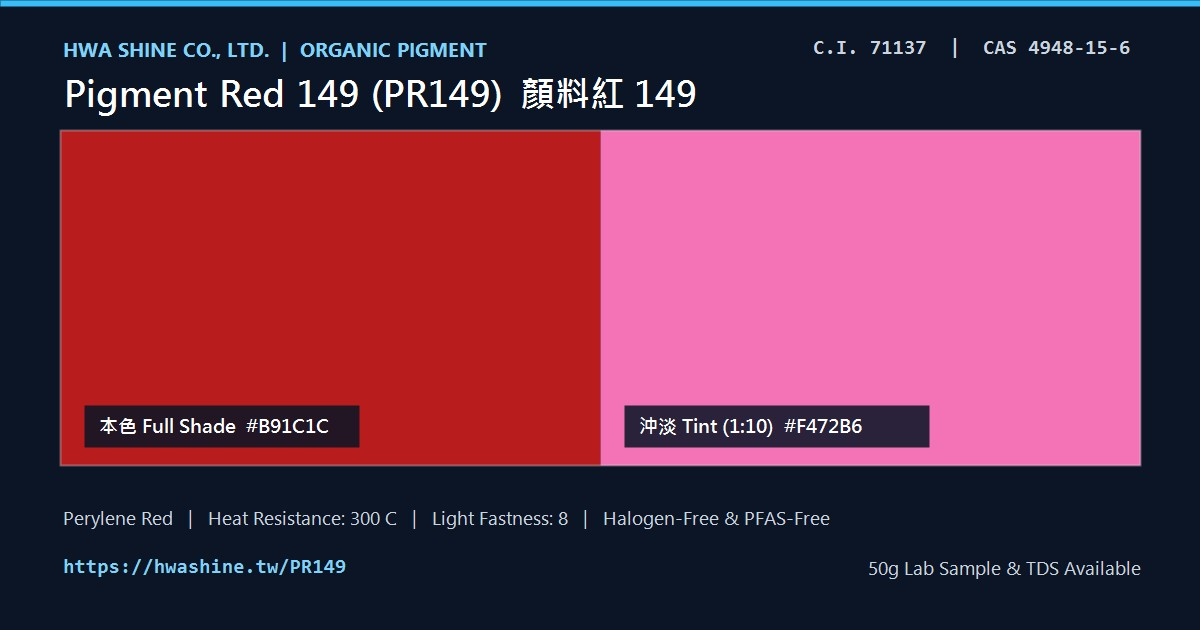
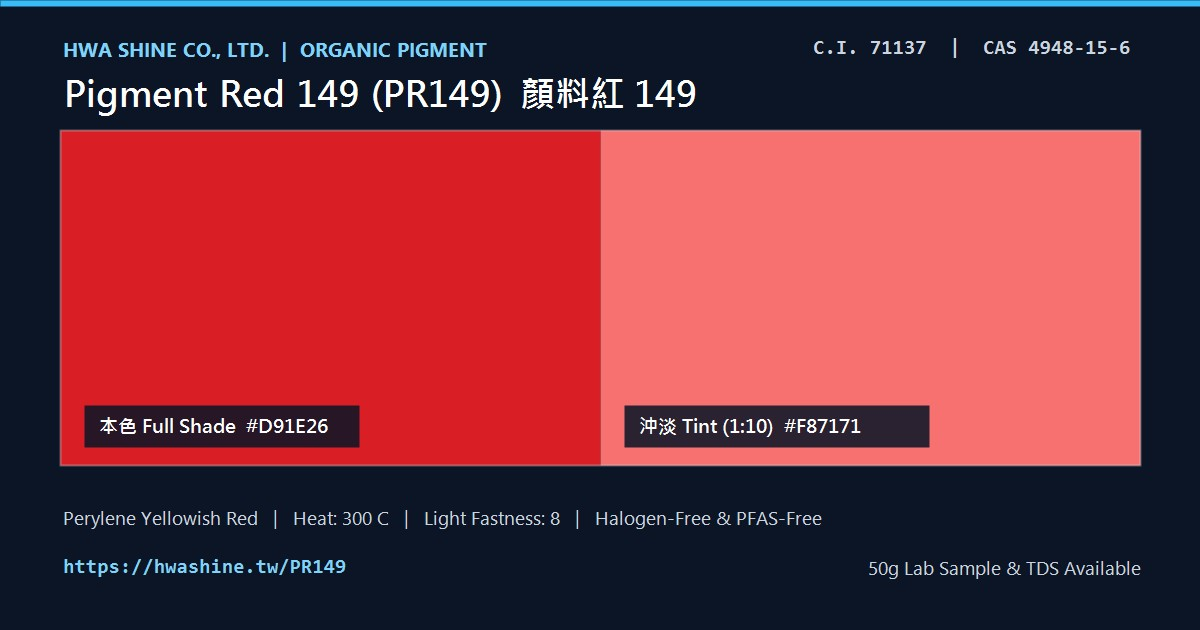
fix(color): correct PR149 hue to bright yellowish red and remove PR122 as true-red substitute in PR144

diff --git a/PR144.html b/PR144.html
@@ -74,7 +74,7 @@
             "name": "Q2. PR144 是否屬於無鹵素顏料？",
             "acceptedAnswer": {
               "@type": "Answer",
-              "text": "不是。PR144 分子式為 C40H23Cl5N6O4，含有 5 顆共價氯原子，雖然完全符合 RoHS 重金屬與 PFAS-Free 要求，但不適用於電子業 IEC 總氯 ≤ 900 ppm 的無鹵素規範；若需無鹵素 300°C 正紅請改選 PR149 或 PR122。"
+              "text": "不是。PR144 分子式為 C40H23Cl5N6O4，含有 5 顆共價氯原子，雖然完全符合 RoHS 重金屬與 PFAS-Free 要求，但不適用於電子業 IEC 總氯 ≤ 900 ppm 的無鹵素規範；若需無鹵素高溫紅顏料，偏亮紅/黃光紅請優先評估 PR149（300°C 苝紅），偏藍光紅可評估 PR177（280°C 蒽醌紅）；PR122 則為藍光品紅，需搭配黃相紅調色。"
             }
           },
           {
@@ -191,7 +191,7 @@
                             <div class="bg-amber-50/70 p-5 rounded-xl border border-amber-100">
                                 <h3 class="text-base font-bold text-amber-900 mb-3">選型與法規邊界提醒</h3>
                                 <ul class="space-y-2 text-sm text-slate-700">
-                                    <li><i class="fas fa-exclamation-triangle text-amber-600 mr-1.5"></i><strong>含氯結構（非無鹵）：</strong>分子含 5 顆氯原子（Cl₅），若客戶要求電子級無鹵素請改選 <a href="/PR149" class="font-bold text-sky-700 underline decoration-sky-300 underline-offset-2">PR149</a> 或 <a href="/PR122" class="font-bold text-sky-700 underline decoration-sky-300 underline-offset-2">PR122</a>。</li>
+                                    <li><i class="fas fa-exclamation-triangle text-amber-600 mr-1.5"></i><strong>含氯結構（非無鹵）：</strong>分子含 5 顆氯原子（Cl₅），若客戶要求電子級無鹵素，偏亮紅可改選 <a href="/PR149" class="font-bold text-sky-700 underline decoration-sky-300 underline-offset-2">PR149</a>，偏藍光紅可評估 <a href="/PR177" class="font-bold text-sky-700 underline decoration-sky-300 underline-offset-2">PR177</a>。</li>
                                     <li><i class="fas fa-exclamation-triangle text-amber-600 mr-1.5"></i><strong>HDPE 翹曲留意：</strong>在大型薄壁 HDPE 注塑件中具中度結晶成核傾向，建議先試模。</li>
                                     <li><i class="fas fa-exclamation-triangle text-amber-600 mr-1.5"></i><strong>極端戶外汽車漆：</strong>長期戶外高耐候面漆建議優先選用 <a href="/PR254" class="font-bold text-sky-700 underline decoration-sky-300 underline-offset-2">PR254</a> 或 <a href="/PR168" class="font-bold text-sky-700 underline decoration-sky-300 underline-offset-2">PR168</a>。</li>
                                 </ul>
@@ -300,7 +300,7 @@
                                 <tr>
                                     <td><a href="/PR149" class="font-mono font-bold text-sky-700 underline">PR149</a></td>
                                     <td>苝系 (Perylene)</td>
-                                    <td>鮮豔正紅（高透明）</td>
+                                    <td>鮮豔黃光紅（高透明）</td>
                                     <td class="font-mono">300°C</td>
                                     <td class="font-mono">8 級</td>
                                     <td class="text-emerald-700 font-bold">是</td>
@@ -376,7 +376,7 @@
                         </details>
                         <details class="bg-white rounded-xl border border-slate-200 p-4">
                             <summary class="font-bold text-slate-900 cursor-pointer">Q2. PR144 是否屬於無鹵素顏料？</summary>
-                            <p class="text-sm text-slate-600 mt-2 mb-0">不是。PR144 分子含有 5 顆共價氯原子，雖然符合 RoHS 與 PFAS-Free，但不適用電子無鹵規範；若需無鹵素 300°C 正紅請改選 <a href="/PR149" class="font-bold text-sky-700 underline">PR149</a> 或 <a href="/PR122" class="font-bold text-sky-700 underline">PR122</a>。</p>
+                            <p class="text-sm text-slate-600 mt-2 mb-0">不是。PR144 分子含有 5 顆共價氯原子，雖然符合 RoHS 與 PFAS-Free，但不適用電子無鹵規範；若需無鹵素高溫紅顏料，偏亮紅可優先評估 <a href="/PR149" class="font-bold text-sky-700 underline">PR149</a>，偏藍光紅可評估 <a href="/PR177" class="font-bold text-sky-700 underline">PR177</a>。</p>
                         </details>
                         <details class="bg-white rounded-xl border border-slate-200 p-4">
                             <summary class="font-bold text-slate-900 cursor-pointer">Q3. PR144 適合軟質 PVC 與電線電纜著色嗎？</summary>
@@ -393,7 +393,7 @@
                     </div>
                     <div class="grid grid-cols-1 sm:grid-cols-2 lg:grid-cols-4 gap-3">
                         <a href="/PR166" class="hs-card p-4 block"><div class="flex items-center gap-2 mb-1"><span style="width:14px;height:14px;border-radius:50%;background:#E34234;display:inline-block;"></span><span class="font-mono font-bold text-sm text-sky-700">PR166</span></div><div class="text-xs font-bold text-slate-800">雙偶氮縮合朱紅</div><div class="text-[11px] text-slate-500">300°C・黃光姊妹號</div></a>
-                        <a href="/PR149" class="hs-card p-4 block"><div class="flex items-center gap-2 mb-1"><span style="width:14px;height:14px;border-radius:50%;background:#B91C1C;display:inline-block;"></span><span class="font-mono font-bold text-sm text-sky-700">PR149</span></div><div class="text-xs font-bold text-slate-800">無鹵苝系正紅</div><div class="text-[11px] text-slate-500">300°C・無鹵/紡絲</div></a>
+                        <a href="/PR149" class="hs-card p-4 block"><div class="flex items-center gap-2 mb-1"><span style="width:14px;height:14px;border-radius:50%;background:#B91C1C;display:inline-block;"></span><span class="font-mono font-bold text-sm text-sky-700">PR149</span></div><div class="text-xs font-bold text-slate-800">無鹵苝系黃光紅</div><div class="text-[11px] text-slate-500">300°C・無鹵/紡絲</div></a>
                         <a href="/PR254" class="hs-card p-4 block"><div class="flex items-center gap-2 mb-1"><span style="width:14px;height:14px;border-radius:50%;background:#C40202;display:inline-block;"></span><span class="font-mono font-bold text-sm text-sky-700">PR254</span></div><div class="text-xs font-bold text-slate-800">頂級 DPP 正紅</div><div class="text-[11px] text-slate-500">300°C・汽車漆主力</div></a>
                         <a href="/PR168" class="hs-card p-4 block"><div class="flex items-center gap-2 mb-1"><span style="width:14px;height:14px;border-radius:50%;background:#DC2626;display:inline-block;"></span><span class="font-mono font-bold text-sm text-sky-700">PR168</span></div><div class="text-xs font-bold text-slate-800">二溴蒽嵌蒽二酮紅</div><div class="text-[11px] text-slate-500">頂級耐候・黃光朱紅</div></a>
                     </div>

diff --git a/PR149.html b/PR149.html
@@ -6,8 +6,8 @@
     <link rel="icon" href="/favicon.ico" type="image/x-icon">
 
     <!-- SEO Meta Tags -->
-    <title>顏料紅149 (PR149 / C.I. 71137) 高耐熱無鹵苝系正紅 | CAS 4948-15-6 | 華翔興業</title>
-    <meta name="description" content="顏料紅149 (Pigment Red 149, C.I. 71137, CAS 4948-15-6) 為高純度無鹵苝系 (Perylene) 鮮豔正紅有機顏料。耐熱達300°C、耐光8級、PVC耐遷移5級、完全無鹵素與PFAS-Free，廣泛用於PP/PET原液紡絲、高溫工程塑膠、無鹵電子電器塑膠與汽車金屬漆。">
+    <title>顏料紅149 (PR149 / C.I. 71137) 高耐熱無鹵苝系黃光紅 | CAS 4948-15-6 | 華翔興業</title>
+    <meta name="description" content="顏料紅149 (Pigment Red 149, C.I. 71137, CAS 4948-15-6) 為高純度無鹵苝系 (Perylene) 鮮豔偏黃光紅有機顏料。耐熱達300°C、耐光8級、PVC耐遷移5級、完全無鹵素與PFAS-Free，廣泛用於PP/PET原液紡絲、高溫工程塑膠、無鹵電子電器塑膠與汽車金屬漆。">
     <meta name="keywords" content="顏料紅149, PR149, Pigment Red 149, C.I. 71137, CAS 4948-15-6, 苝紅, Perylene Red, 無鹵紅顏料, PP紡絲顏料, 300度耐熱紅, 華翔興業">
     <meta name="author" content="華翔興業有限公司">
 
@@ -18,7 +18,7 @@
 
     <!-- Open Graph -->
     <meta property="og:type" content="product">
-    <meta property="og:title" content="顏料紅149 (PR149 / C.I. 71137) | 300°C高耐熱無鹵苝系正紅顏料">
+    <meta property="og:title" content="顏料紅149 (PR149 / C.I. 71137) | 300°C高耐熱無鹵苝系黃光紅顏料">
     <meta property="og:description" content="CAS 4948-15-6 | 耐熱300°C、耐光8級、PVC耐遷移5級、理論結構無鹵素與PFAS-Free，PP/PET紡絲與高溫工程塑膠首選。">
     <meta property="og:url" content="https://hwashine.tw/PR149">
     <meta property="og:image" content="https://hwashine.tw/images/pr149-sample.jpg">
@@ -181,7 +181,7 @@
                     <h2 class="hs-section-title">產品簡介與核心性能解析</h2>
                     <div class="text-slate-600 leading-relaxed space-y-4">
                         <p>
-                            <strong>顏料紅 149（C.I. Pigment Red 149，簡稱 PR149，C.I. 71137，CAS 4948-15-6）</strong>是一款高純度<strong>苝系（Perylene Diimide）</strong>鮮豔正紅至微藍光紅有機顏料。其分子以剛性苝四甲醯亞胺多環共軛骨架為核心，兩端接枝對稱的 3,5-二甲基苯基，賦予極高的著色力、透明度與高達 <strong>300°C</strong> 的卓越熱穩定性。
+                            <strong>顏料紅 149（C.I. Pigment Red 149，簡稱 PR149，C.I. 71137，CAS 4948-15-6）</strong>是一款高純度<strong>苝系（Perylene Diimide）</strong>鮮豔清澈偏黃光紅（Bright Yellowish Red，國際標樣 PV Fast Red B 色相）有機顏料。其分子以剛性苝四甲醯亞胺多環共軛骨架為核心，兩端接枝對稱的 3,5-二甲基苯基，賦予極高的著色力、透明度與高達 <strong>300°C</strong> 的卓越熱穩定性。
                         </p>
                         <p>
                             相較於傳統偶氮紅與含氯高階紅顏料（如 <a href="/PR254" class="font-bold text-sky-700 underline decoration-sky-300 underline-offset-2">PR254</a>、<a href="/PR144" class="font-bold text-sky-700 underline decoration-sky-300 underline-offset-2">PR144</a>、<a href="/PR166" class="font-bold text-sky-700 underline decoration-sky-300 underline-offset-2">PR166</a>），PR149 理論分子式（<code>C₄₀H₂₆N₂O₄</code>）<strong>完全不含氯、溴、氟等鹵素與重金屬</strong>，在 PP/PET 纖維原液紡絲、無鹵電子電器工程塑膠與高透明汽車金屬漆領域極具不可替代性。
@@ -249,7 +249,7 @@
                             </div>
                             <div class="bg-white border border-slate-200 rounded-lg p-3">
                                 <div class="font-bold text-slate-900 mb-1">③ 3,5-二甲苯基取代</div>
-                                <p class="text-slate-600 m-0">調控晶格堆積與色相為鮮豔正紅，同時保持完全無鹵素特性。</p>
+                                <p class="text-slate-600 m-0">調控晶格堆積與色相為苝系中最明亮的鮮豔黃光紅，同時保持完全無鹵素特性。</p>
                             </div>
                         </div>
                     </div>
@@ -290,7 +290,7 @@
                                 <tr class="bg-sky-50/60 font-semibold">
                                     <td class="font-mono font-bold text-sky-700">PR149</td>
                                     <td>苝系 (Perylene)</td>
-                                    <td>鮮豔正紅（高透明）</td>
+                                    <td>鮮豔黃光紅（高透明）</td>
                                     <td class="font-mono">300°C</td>
                                     <td class="font-mono">8 級</td>
                                     <td class="text-emerald-700 font-bold">是</td>
@@ -415,11 +415,11 @@
                         <div class="text-xs font-bold uppercase tracking-wider text-slate-400 text-center mb-4">色相參考 (Color Reference)</div>
                         <div class="flex justify-center gap-8 mb-5">
                             <div class="text-center">
-                                <div class="w-20 h-20 rounded-full shadow-md ring-4 ring-white mx-auto mb-2" style="background-color: #B91C1C;"></div>
+                                <div class="w-20 h-20 rounded-full shadow-md ring-4 ring-white mx-auto mb-2" style="background-color: #D91E26;"></div>
                                 <span class="text-xs font-medium text-slate-600">本色參考</span>
                             </div>
                             <div class="text-center">
-                                <div class="w-20 h-20 rounded-full shadow-md ring-4 ring-white mx-auto mb-2" style="background-color: #F472B6;"></div>
+                                <div class="w-20 h-20 rounded-full shadow-md ring-4 ring-white mx-auto mb-2" style="background-color: #F87171;"></div>
                                 <span class="text-xs font-medium text-slate-600">沖淡參考</span>
                             </div>
                         </div>

diff --git a/en/PR149.html b/en/PR149.html
@@ -53,7 +53,7 @@
       <div class="lg:col-span-2 space-y-6">
         <section class="bg-white rounded-2xl border border-slate-200 shadow-sm p-6 md:p-8">
           <h2 class="hs-section-title">Product Overview &amp; Performance</h2>
-          <p class="text-slate-700 leading-relaxed mb-5">Pigment Red 149 (C.I. 71137, CAS 4948-15-6, Formula C₄₀H₂₆N₂O₄) is a high-performance perylene diimide true red organic pigment renowned for ultra-high tinting strength, 300°C melt stability, 8-grade lightfastness, and 5-grade migration resistance in PVC and polyolefins.</p>
+          <p class="text-slate-700 leading-relaxed mb-5">Pigment Red 149 (C.I. 71137, CAS 4948-15-6, Formula C₄₀H₂₆N₂O₄) is a high-performance perylene diimide bright yellowish-red (PV Fast Red B shade) organic pigment renowned for ultra-high tinting strength, 300°C melt stability, 8-grade lightfastness, and 5-grade migration resistance in PVC and polyolefins.</p>
           <div class="grid grid-cols-1 sm:grid-cols-2 gap-4">
             <div class="p-4 rounded-xl bg-sky-50/70 border border-sky-100">
               <h3 class="text-sm font-bold text-sky-900 mb-2">Recommended Applications</h3>
@@ -91,8 +91,8 @@
         <div class="bg-white rounded-2xl border border-slate-200 shadow-sm overflow-hidden sticky top-24">
           <div class="p-6 bg-slate-50 border-b border-slate-200">
             <div class="flex justify-center gap-8">
-              <div class="text-center"><div class="w-20 h-20 rounded-full shadow-md ring-4 ring-white mx-auto mb-2" style="background-color:#B91C1C;"></div><span class="text-xs font-semibold text-slate-600">Full Shade</span></div>
-              <div class="text-center"><div class="w-20 h-20 rounded-full shadow-md ring-4 ring-white mx-auto mb-2" style="background-color:#F472B6;"></div><span class="text-xs font-semibold text-slate-600">Tint (TiO₂)</span></div>
+              <div class="text-center"><div class="w-20 h-20 rounded-full shadow-md ring-4 ring-white mx-auto mb-2" style="background-color:#D91E26;"></div><span class="text-xs font-semibold text-slate-600">Full Shade</span></div>
+              <div class="text-center"><div class="w-20 h-20 rounded-full shadow-md ring-4 ring-white mx-auto mb-2" style="background-color:#F87171;"></div><span class="text-xs font-semibold text-slate-600">Tint (TiO₂)</span></div>
             </div>
           </div>
           <div class="p-6 space-y-3">

diff --git a/en/products.html b/en/products.html
@@ -145,7 +145,7 @@ const PRODUCTS = [
 
   { code:"PR122", name:"Pigment Red 122 (Quinacridone Magenta)", cat:"organic", color:"Red", apps:["Nylon","High Weatherability","Halogen-Free"], c1:"#5B0011", c2:"#E88FD3", l:8, h:5, c:4 },
   { code:"PR144", name:"Pigment Red 144 (Disazo Condensation Red)", cat:"organic", color:"Red", apps:[], c1:"#B81420", c2:"#F28B9E", l:7, h:5, c:3 },
-  { code:"PR149", name:"Pigment Red 149 (Halogen-Free Perylene Red)", cat:"organic", color:"Red", apps:["High Weatherability","Halogen-Free"], c1:"#B91C1C", c2:"#F472B6", l:8, h:5, c:5 },
+  { code:"PR149", name:"Pigment Red 149 (Halogen-Free Perylene Red)", cat:"organic", color:"Red", apps:["High Weatherability","Halogen-Free"], c1:"#D91E26", c2:"#F87171", l:8, h:5, c:5 },
   { code:"PR146", name:"Pigment Red 146 (Naphthol AS Bluish Red)", cat:"organic", color:"Red", apps:[], c1:"#D3170E", c2:"#E89FC1", l:6, h:3, c:2 },
   { code:"PR166", name:"Pigment Red 166 (Disazo Condensation Scarlet)", cat:"organic", color:"Red", apps:[], c1:"#E34234", c2:"#FF7F7F", l:8, h:5, c:3 },
   { code:"PR168", name:"Pigment Red 168 (Dibromoanthanthrone Red)", cat:"organic", color:"Red", apps:["High Weatherability"], c1:"#DC2626", c2:"#FCA5A5", l:8, h:5, c:5 },

diff --git a/products.html b/products.html
@@ -899,8 +899,8 @@
 
     <a href="https://hwashine.tw/PR149" target="_blank" rel="noopener" class="product-card" data-type="organic" data-color="紅色" data-apps="高耐候,無鹵素" data-search="pr149 顏料紅 149 苝紅 無鹵">
       <div class="color-display">
-        <div class="mass-tone" style="background-color: #B91C1C;"><span class="color-tag">本色</span></div>
-        <div class="tint-tone" style="background-color: #F472B6;"><span class="color-tag">沖淡</span></div>
+        <div class="mass-tone" style="background-color: #D91E26;"><span class="color-tag">本色</span></div>
+        <div class="tint-tone" style="background-color: #F87171;"><span class="color-tag">沖淡</span></div>
       </div>
       <div class="card-body">
         <div class="card-header"><span class="product-code">PR149</span><span class="ci-badge">Organic</span></div>
